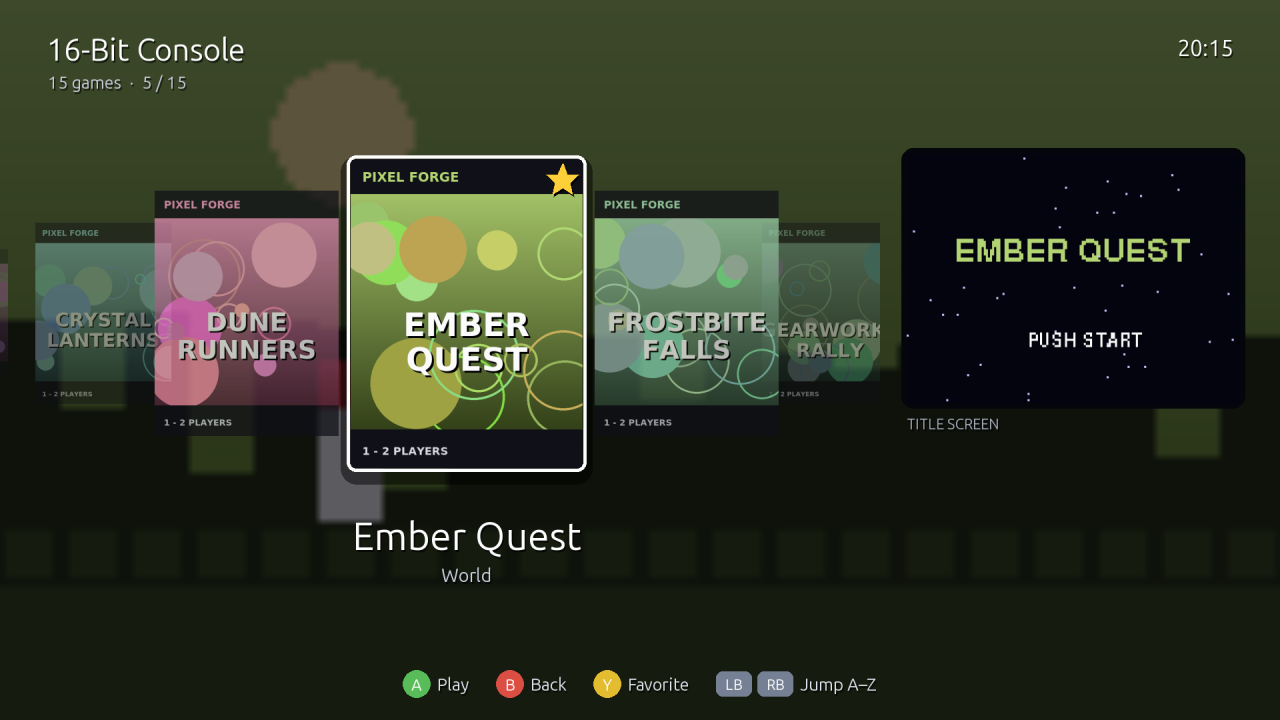
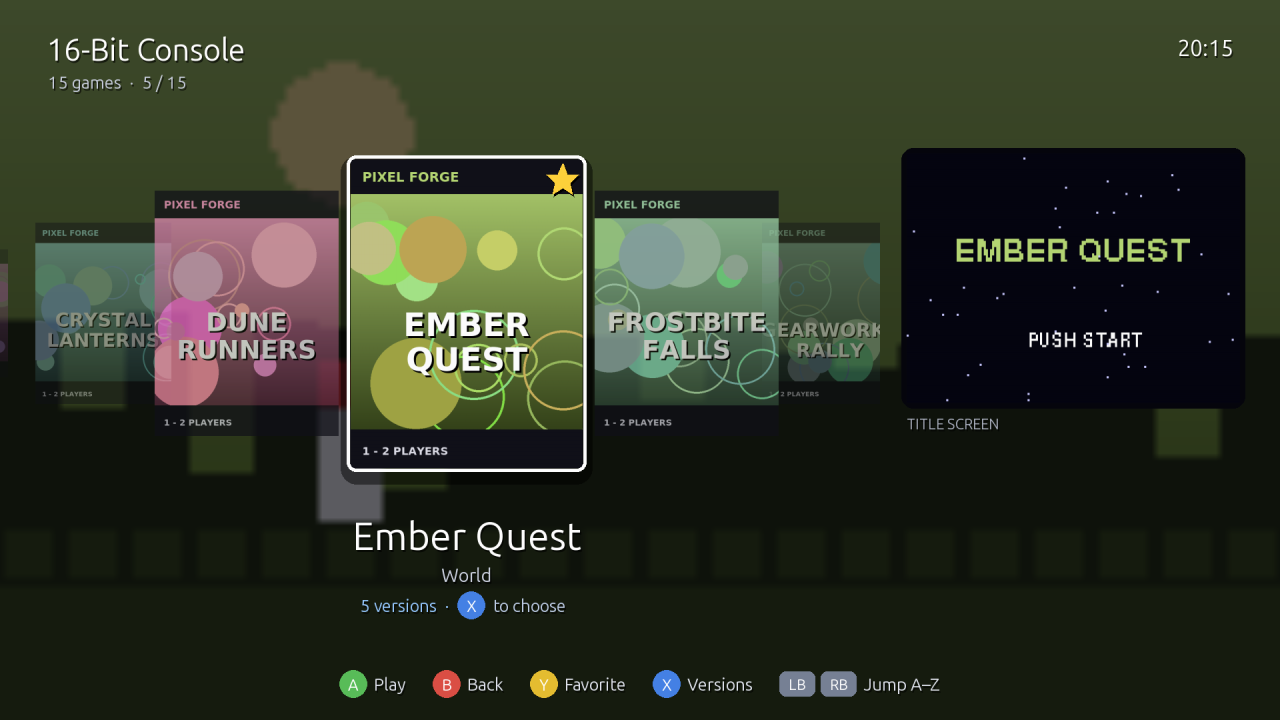
Release 0.4.0: README, changelog and screenshots
- README: built-in player section, versions and Show all, X button, the B menu,
  Select + Start game menu, new files and troubleshooting entries.
- Screenshots regenerated from the fictional demo library, plus the Versions
  list and the built-in player's pause menu.
- CHANGELOG entry for 0.4.0.

Changed region(s): [[0.25, 0.9167, 0.7188, 0.9778], [0.2812, 0.825, 0.4375, 0.8556]]

diff --git a/docs/make_screenshots.py b/docs/make_screenshots.py
@@ -36,6 +36,8 @@ SYSTEMS = {
 LIBRARY = {pl: v[3] for pl, v in SYSTEMS.items()}
 REGIONS = ["World", "USA", "Japan", "Europe"]
 FAVORITES = ["Ember Quest", "Neon Brawlers", "Chrome Horizon", "Coral Kingdom"]
+# extra copies of a game, to show the Versions list (a region, a fan translation, a revision)
+VERSIONS = {"Ember Quest": ["Japan", "Europe", "USA) (Rev 1", "Japan) (Translated En"]}
 RECENT = ["Star Pilot X", "Ember Quest", "Tiny Towers", "Rogue Comet", "Echo Protocol"]
 
 
@@ -110,6 +112,11 @@ def build_home(pygame, root):
                 pygame.image.save(img, os.path.join(ra, "thumbnails", sysdir, kind, label + ".png"))
             e = {"path": rom, "label": label, "core_path": core, "core_name": "Demo", "crc32": "00000000|crc", "db_name": pl + ".lpl"}
             entries.append(e); items[g] = e
+            for reg in VERSIONS.get(g, []):
+                vl = f"{g} ({reg})"; vrom = os.path.join(ra, "roms", vl.replace(" ", "_") + ".zip"); open(vrom, "w").close()
+                for kind, img in (("Named_Boxarts", box), ("Named_Snaps", snap), ("Named_Titles", title)):
+                    pygame.image.save(img, os.path.join(ra, "thumbnails", sysdir, kind, vl + ".png"))
+                entries.append(dict(e, path=vrom, label=vl))
         json.dump({"version": "1.5", "default_core_path": core, "items": entries}, open(os.path.join(ra, "playlists", pl + ".lpl"), "w"))
     json.dump({"version": "1.5", "items": [items[g] for g in FAVORITES]}, open(os.path.join(ra, "content_favorites.lpl"), "w"))
     json.dump({"version": "1.5", "items": [items[g] for g in RECENT]}, open(os.path.join(ra, "content_history.lpl"), "w"))
@@ -142,8 +149,20 @@ def main():
     go_system("Pixel Forge - 16-Bit Console"); app.screen_mode = "games"
     app.gi[app.sys["id"]] = next(k for k, g in enumerate(app.games()) if g.title == "Ember Quest")
     app.gpos = float(app.cur_gi()); save("games")
+    app.open_versions(); app.vsel = 1; save("versions"); app.screen_mode = "games"
     app.si = 0; app.spos = 0.0; app.screen_mode = "games"; app.gpos = 0.0; save("favorites")
     app.screen_mode = "systems"; go_system("Pixel Forge - 32-Bit Disc System"); app.screen_mode = "quit"; app.quit_sel = 1; save("menu")
+    # the built-in player's pause menu, over a demo game's picture
+    eng = runpy.run_path(os.path.join(HERE, "..", "engine.py"), run_name="engine_demo")
+    p = eng["Player"].__new__(eng["Player"]); p.screen = app.screen; p.menu_sel = 0
+    fp = pygame.font.match_font("ubuntu,notosans,dejavusans", bold=True); fc = {}
+    p.font = lambda n: fc.setdefault(n, pygame.font.Font(fp, n))
+    _, snap, _ = draw_art(pygame, lambda n: pygame.font.Font(fp, n), "Star Pilot X", root)
+    W, H = app.screen.get_size(); app.screen.fill((0, 0, 0))
+    g = pygame.transform.scale(snap, (H * 4 // 3, H)); app.screen.blit(g, ((W - g.get_width()) // 2, 0))
+    p.draw_menu()
+    pygame.image.save(pygame.transform.smoothscale(app.screen, SIZE), os.path.join(OUT, "game_menu.png"))
+    print("wrote", os.path.join("docs", "screenshots", "game_menu.png"))
     app.raw[1] = None
     app.start_setup(1, name="USB Gamepad", guid="demo", baseline={})
     app.setup["step"] = 4; save("controller_setup")

diff --git a/insert_coin.py b/insert_coin.py
@@ -2,14 +2,16 @@
 """Insert Coin - a controller-driven, console-style front end for RetroArch.
 
 It reads RetroArch's own playlists, thumbnails, favorites and history, and
-launches games through RetroArch with each game's assigned core. Nothing is
-duplicated: whatever works in RetroArch works here.
+launches games with each game's assigned core: through RetroArch, or in its own
+built-in player (engine.py, beta; B menu > Player). Nothing is duplicated:
+whatever works in RetroArch works here.
 
 Controls (Xbox-style pad; keyboard in brackets)
   D-pad / left stick  move            [arrows]
   A                   open / play     [Enter]
   B                   back            [Backspace / Esc]
   Y                   toggle favorite [F]
+  X                   versions of a game [V]
   LB / RB             previous / next letter   [PageUp / PageDown]
   Menu sounds can be switched off in the B menu (saved in ~/.config/insert-coin/settings.json).
   In a game: Select+Start opens the game menu (Resume / Quit game, or RetroArch's Quick Menu).
@@ -17,7 +19,7 @@ Controls (Xbox-style pad; keyboard in brackets)
 Options: --windowed   run in a window (for testing)
          --shot DIR   render sample screens to PNG files and exit (no display needed)
 """
-__version__ = "0.4.0.dev0"
+__version__ = "0.4.0"
 
 import json, os, re, sys, time, random, threading, subprocess, collections, logging, faulthandler, platform
 

diff --git a/README.md b/README.md
@@ -1,16 +1,17 @@
 # Insert Coin
 
-**A controller-driven, console-style game menu for [RetroArch](https://www.retroarch.com/) on Linux.**
+**A controller-driven, console-style game menu for [RetroArch](https://www.retroarch.com/) on Linux — with its own built-in game player.**
 
 Pick a system, scroll through the box art, press **A** to play. No keyboard, no settings menus —
 just your games, the way a console shows them.
 
-> **Status: 0.3.1 — early release.** Tested on Linux Mint 22.3 (Cinnamon, X11) with Xbox-style and
+> **Status: 0.4.0 — early release.** Tested on Linux Mint 22.3 (Cinnamon, X11) with Xbox-style and
 > PlayStation controllers. It hasn't been tried on other
 > setups yet, so expect rough edges and please [report them](CONTRIBUTING.md).
 >
-> Insert Coin currently needs a working RetroArch setup. A standalone version that sets
-> everything up for you is a long-term goal.
+> Insert Coin currently needs a working RetroArch setup: it uses RetroArch's playlists, cores and
+> artwork. Since 0.4.0 it can also play most games itself (**Built-in player**, beta) — the first
+> step towards a standalone version that sets everything up for you.
 
 ![Insert Coin's game screen: a box-art carousel over a blurred in-game snapshot, with the title screen in a side panel](docs/screenshots/games.png)
 
@@ -22,6 +23,7 @@ just your games, the way a console shows them.
 - [Features](#features)
 - [Screenshots](#screenshots)
 - [Controls](#controls)
+- [Built-in player (beta)](#built-in-player-beta)
 - [Prerequisites](#prerequisites)
 - [Installation](#installation)
 - [Getting artwork](#getting-artwork-sync_thumbnailspy)
@@ -37,8 +39,11 @@ just your games, the way a console shows them.
 
 ## What it is (and isn't)
 
-Insert Coin is a **front end**, not an emulator. RetroArch and its cores do the emulation;
-Insert Coin gives you a big-screen, controller-only way to browse and launch games.
+Insert Coin is a **front end**, not an emulator. The emulation is done by libretro *cores* —
+the same emulator plug-ins RetroArch uses. Insert Coin gives you a big-screen, controller-only
+way to browse and launch games, and starts each one either in RetroArch or, if you switch it on,
+in its own **built-in player**, which runs the cores directly (see
+[Built-in player](#built-in-player-beta)).
 
 It reads everything from your existing RetroArch setup — playlists, the core assigned to each
 game, thumbnails, favorites and history — so **whatever already works in RetroArch works here**,
@@ -56,14 +61,23 @@ vice versa.
   RetroArch's databases know them. Games without artwork get a clean name card.
 - **Favorites** — press **Y** on any game to add or remove it.
 - **Jump by letter** — **LB / RB** skip through long lists alphabetically.
+- **One entry per game** — the same game copied into several folders is shown once, and its
+  other versions (regions, revisions, fan translations) are grouped under one entry: press **X**
+  to pick one. The best version is chosen for you: one you have a save for, then a clean dump,
+  then USA / World, Europe, Japan. Prefer to see every ROM? **B** on the home screen →
+  **Games: Show all**.
+- **Built-in player** *(beta)* — plays games without RetroArch's window, with a simple
+  **Resume / Quit game** menu on **Select + Start**. Works for every system except N64.
 - **Menu sounds** — retro bleeps for scrolling, selecting, going back and favorites, and Insert
   Coin's own coin-up sound when a game starts: a credit counter ticking up, then a bell. All sounds are generated by the program itself (no audio files).
   Switch them off in the menu: **B** on the home screen → **Sound: On / Off**.
-- **Controller shortcuts in games** — **Select + Start** quits back to Insert Coin;
-  clicking **both sticks** opens RetroArch's menu for save states and settings.
+- **One shortcut in every game** — **Select + Start** opens the game menu: Insert Coin's
+  *Resume / Quit game* in the built-in player, or RetroArch's *Quick Menu* (Resume, save states,
+  Close Content) in RetroArch.
 - **Works with any controller** — Xbox, PlayStation and Nintendo Switch pads are recognised
-  automatically, and the on-screen button hints match the controller in your hand (✕ ○ △ on
-  PlayStation, A B Y on Xbox and Switch, key caps on the keyboard). Unrecognised pads get a
+  automatically, and the on-screen button hints match the controller in your hand (✕ ○ △ □ on
+  PlayStation, A B X Y on Xbox and Switch, key caps on the keyboard). They switch the moment you
+  plug in another pad, and pads swapped during a game are picked up. Unrecognised pads get a
   one-time set-up screen.
 - **Start on login** — optionally boot straight into the game menu, like turning on a console.
 - **Smooth on big screens** — renders at 1080p and is scaled by the GPU, so it stays fluid on 4K
@@ -75,7 +89,9 @@ vice versa.
 |---|---|
 | ![Home screen: a carousel of systems, each with a fan of its box art](docs/screenshots/home.png) | ![Favorites, shared with RetroArch's own favorites list](docs/screenshots/favorites.png) |
 | **Home** — every system, plus Favorites and Recently Played | **Favorites** — press Y on any game |
-| ![The menu: Resume, Sound on/off, Set up controller, Exit Insert Coin](docs/screenshots/menu.png) | ![Controller set-up: press the button you want for each action](docs/screenshots/controller_setup.png) |
+| ![The Versions list: one game in five versions, the best one first](docs/screenshots/versions.png) | ![The built-in player's pause menu: Resume, Quit game](docs/screenshots/game_menu.png) |
+| **Versions** — X on a game with more than one | **Game menu** — Select + Start in the built-in player |
+| ![The menu: Resume, Sound, Player, Games, Set up controller, Exit Insert Coin](docs/screenshots/menu.png) | ![Controller set-up: press the button you want for each action](docs/screenshots/controller_setup.png) |
 | **Menu** — B on the home screen | **Controller set-up** — for pads that aren't recognised |
 
 Button hints follow the controller in your hand — Xbox, PlayStation, Switch / SNES-style, or keyboard:
@@ -90,16 +106,27 @@ Button hints follow the controller in your hand — Xbox, PlayStation, Switch / 
 |---|---|---|
 | D-pad / left stick | Arrow keys | Move · up/down skips 10 games |
 | **A** or Start | Enter | Open a system · play a game |
-| **B** or Back | Esc / Backspace | Back · on the home screen: the menu (Resume · Sound on/off · Set up controller · Exit) |
+| **B** or Back | Esc / Backspace | Back · on the home screen: the menu (see below) |
 | **Y** | F | Add / remove favorite |
+| **X** | V | Versions — choose a region, revision or translation (games with more than one) |
 | **LB / RB** | Page Up / Page Down | Previous / next letter |
 
-**While a game is running** (provided by RetroArch):
+**The menu** (**B** on the home screen):
 
-| Controller | Action |
+| Item | What it does |
 |---|---|
-| **Select + Start** | Quit the game and return to Insert Coin |
-| **L3 + R3** (click both sticks) | RetroArch quick menu: save/load state, settings, quit |
+| **Resume** | Close the menu |
+| **Sound: On / Off** | Menu sounds |
+| **Player: RetroArch / Built-in (beta)** | Which program plays your games — see [Built-in player](#built-in-player-beta) |
+| **Games: One per game / Show all** | Group copies and versions of a game into one entry, or list every ROM |
+| **Set up controller** | Redo the button set-up for an unrecognised pad |
+| **Exit Insert Coin** | Close Insert Coin |
+
+**While a game is running:**
+
+| Controller | Keyboard | Action |
+|---|---|---|
+| **Select + Start** | Esc *(built-in player)* | The game menu. Built-in player: **Resume** or **Quit game**. RetroArch: its *Quick Menu* — Resume, save/load state, settings, and **Close Content** to return to Insert Coin |
 
 The table uses Xbox names; Insert Coin shows the matching symbols for your controller:
 
@@ -109,7 +136,8 @@ The table uses Xbox names; Insert Coin shows the matching symbols for your contr
 | Back | B | ○ | B | Esc |
 | Favorite | Y | △ | Y | F |
 | Previous / next letter | LB / RB | L1 / R1 | L / R | PgUp / PgDn |
-| Quit a game | Back + Start | Select + Start (PS3) · Share + Options (PS4) · Create + Options (PS5) | Minus + Plus · Select + Start on SNES replicas | Esc |
+| Versions | X | □ | X | V |
+| Game menu | Back + Start | Select + Start (PS3) · Share + Options (PS4) · Create + Options (PS5) | Minus + Plus · Select + Start on SNES replicas | Esc |
 
 Switch / SNES-style means controllers with the Nintendo layout: Switch Pro, Joy-Con pairs, 8BitDo pads in Switch mode, and USB SNES replicas (recognised by a name containing "SNES", "Super Nintendo" or "Super Famicom", or as the iBuffalo Classic pad). Nintendo puts A on the right and B at the bottom, and Insert Coin follows the printed labels, so **A** always selects — on replicas too, even though SDL reports their buttons by position. A replica that isn't recognised this way uses Xbox positions: the bottom button selects.
 
@@ -124,7 +152,35 @@ Switch / SNES-style means controllers with the Nintendo layout: Switch Pro, Joy-
   those). Buttons, d-pads and sticks all work; a button can't be given two jobs. The set-up is
   saved per controller model, so it happens once. To redo it: **B** on the home screen →
   **Set up controller**. Esc on the keyboard cancels.
-- **In games**, buttons are handled by RetroArch's own controller profiles.
+- **In games**, RetroArch uses its own controller profiles. The built-in player uses the same
+  layout as RetroArch's standard pad: the face buttons by position (bottom, right, left, top), so
+  a game's "jump on the bottom button" stays on the bottom button whatever pad you use. Each pad
+  is a player, in the order it was connected (playing two at once hasn't been tested yet). On the keyboard: arrows,
+  Z / X / A / S (bottom / right / left / top), Q / W (shoulders), Enter (Start), Right Shift (Select).
+
+## Built-in player (beta)
+
+Insert Coin can play games itself, without starting RetroArch. Turn it on with **B** on the home
+screen → **Player: Built-in (beta)**; switch back to **Player: RetroArch** at any time.
+
+- **What it is:** a small libretro *frontend* inside Insert Coin. It loads the same core files
+  RetroArch uses (from `~/.config/retroarch/cores/`), shows the picture with sharp, correctly
+  proportioned pixels, plays the sound at the game's own speed, and reads your controllers.
+- **Systems:** everything whose core draws in software — NES / Famicom, SNES, Game Boy, Game Boy
+  Color, Game Boy Advance, Mega Drive / Genesis, 32X, PC Engine, Neo Geo Pocket, PlayStation,
+  Atari 2600, arcade and Neo Geo (FinalBurn Neo, MAME 2003 and 2003-Plus). **N64 still opens in
+  RetroArch**, because its core needs the graphics card. If the built-in player can't start a
+  game, Insert Coin opens it in RetroArch instead.
+- **Saves:** battery saves (RPG progress, high scores) go to
+  `~/.local/share/insert-coin/saves/<core>/`. The first time you play a game there, your existing
+  RetroArch save for it is copied in, so you carry on where you left off. They're written every
+  30 seconds and when you quit.
+- **Settings:** each core uses the options you chose for it in RetroArch, if any; otherwise its
+  defaults. BIOS files are read from RetroArch's `system` folder.
+- **`.7z` archives** are opened with the 7-Zip program (`sudo apt install p7zip-full`); `.zip`
+  needs nothing extra.
+- **Not there yet:** save states, rewind, fast-forward, shaders, changing core options, swapping
+  discs in multi-disc games, and N64. Use **Player: RetroArch** for those.
 
 ## Prerequisites
 
@@ -242,7 +298,7 @@ Start **Insert Coin** from your applications menu, or run:
 
 | Option | Effect |
 |---|---|
-| `--windowed` | Run in a window instead of fullscreen |
+| `--windowed` | Run in a window instead of fullscreen — games too (handy for testing next to a terminal) |
 | `--shot DIR` | Render sample screens to PNG files in `DIR` and exit — no display needed (for testing) |
 
 **Tip:** close RetroArch before starting Insert Coin. Two copies of RetroArch running at once
@@ -265,16 +321,20 @@ can overwrite each other's settings.
 |---|---|
 | `~/.config/retroarch/content_favorites.lpl` | When you add/remove a favorite (only while RetroArch is closed) |
 | `~/.local/share/insert-coin/launch.cfg` | Each game launch: the in-game controller shortcuts, passed to RetroArch with `--appendconfig` |
+| `~/.local/share/insert-coin/saves/` | Battery saves of games played in the built-in player |
 | `~/.cache/insert-coin/meta/` | Cached year/publisher lookups |
 | `~/.config/insert-coin/controllers.json` | Button set-ups for controllers that aren't recognised automatically |
-| `~/.config/insert-coin/settings.json` | Your settings (currently: menu sounds on or off) |
+| `~/.config/insert-coin/settings.json` | Your settings: menu sounds, which player, one entry per game or show all |
 | `~/.local/state/insert-coin/insert-coin.log` | A log of start-ups, game launches and how each one ended, and any errors (kept to about 1 MB) |
 | `~/.local/state/insert-coin/retroarch-last.log` | RetroArch's detailed log of the last game played (`retroarch-previous.log`: the one before) |
+| `~/.local/state/insert-coin/engine-last.log` | The built-in player's log of the last game it played (`engine-previous.log`: the one before) |
+| `~/.config/retroarch/content_history.lpl` | Recently Played, for games played in the built-in player |
 
-**Note:** RetroArch saves its settings when it closes, so the in-game shortcuts
-(Select + Start to quit, L3 + R3 for the menu) become part of your RetroArch configuration
-and also work when you run RetroArch on its own. You can change them in RetroArch under
-*Settings → Input → Hotkeys*.
+**Note:** RetroArch saves its settings when it closes, so the in-game shortcut (Select + Start
+for the menu) and *Close Content quits RetroArch* (for games started from the command line only)
+become part of your RetroArch configuration. You can change them in RetroArch under
+*Settings → Input → Hotkeys* and *Settings → User Interface*. With `--windowed`, RetroArch
+also runs in a window, and that is not saved.
 
 ## Troubleshooting
 
@@ -283,13 +343,15 @@ and also work when you run RetroArch on its own. You can change them in RetroArc
 | **A system is missing** | Insert Coin hides empty playlists. Check the playlist exists in `~/.config/retroarch/playlists/` and has games. |
 | **"No core is set for this game"** | Set a default core for that playlist in RetroArch (*Settings → Playlists → Manage Playlists*) or set the game's core association. |
 | **"The game closed straight away"** | The game doesn't run with its assigned core, or a BIOS file is missing. Try it in RetroArch directly to see the error, then change the core. |
+| **I see fewer games than RetroArch lists** | Copies of the same game in several folders are shown once, and versions are grouped (press **X** on a game to see them). **B** on the home screen → **Games: Show all** lists every ROM. |
+| **A game behaves differently in the built-in player** | Switch to **Player: RetroArch** and compare. If it's the same there, it's the game (some fire automatically, for instance); if not, please [report it](CONTRIBUTING.md) with `engine-last.log`. |
 | **No artwork** | Run `sync_thumbnails.py`. Some games — hacks, prototypes, translations — have no artwork on the server and get a name card instead. |
 | **Controller does nothing** | Press a button: an unrecognised controller opens the set-up screen. If nothing happens, check the controller works in RetroArch (`retroarch --version`, Settings → Input). Keyboard controls always work. |
 | **Set up a controller wrongly** | **B** on the home screen → **Set up controller** to do it again, or delete `~/.config/insert-coin/controllers.json`. |
-| **Can't quit a game with the controller** | Press Select + Start together. If that was changed in RetroArch, use your RetroArch hotkey or the Esc key. |
-| **Something crashed or closed unexpectedly** | Look at `~/.local/state/insert-coin/insert-coin.log` — it records each launch and how RetroArch ended — and at `retroarch-last.log` next to it for the game's details. Attach both when [reporting a problem](CONTRIBUTING.md). |
-| **No menu sounds** | Check **B** on the home screen shows **Sound: On**, and that your system volume is up. Without a working audio device Insert Coin simply runs silently. Game sound is handled by RetroArch and isn't affected. |
-| **Sticks feel swapped in an N64 shooter** | Many N64 shooters walk with the C-buttons and aim with the stick, and RetroArch puts the C-buttons on your right stick. In the game, open RetroArch's menu (**L3 + R3**) → *Controls → Port 1 Controls*, swap the Left and Right Analog entries, then *Manage Remap Files → Save Game Remap File*. It applies to that game only. |
+| **Can't quit a game with the controller** | Press Select + Start together, then choose **Quit game** (built-in player) or **Close Content** (RetroArch). If that was changed in RetroArch, use your RetroArch hotkey or the Esc key. |
+| **Something crashed or closed unexpectedly** | Look at `~/.local/state/insert-coin/insert-coin.log` — it records each launch and how the game ended — and at `retroarch-last.log` or `engine-last.log` next to it for the game's details. Attach both when [reporting a problem](CONTRIBUTING.md). |
+| **No menu sounds** | Check **B** on the home screen shows **Sound: On**, and that your system volume is up. Without a working audio device Insert Coin simply runs silently. Game sound is handled separately and isn't affected. |
+| **Sticks feel swapped in an N64 shooter** | Many N64 shooters walk with the C-buttons and aim with the stick, and RetroArch puts the C-buttons on your right stick. In the game, open RetroArch's menu (**Select + Start**) → *Controls → Port 1 Controls*, swap the Left and Right Analog entries, then *Manage Remap Files → Save Game Remap File*. It applies to that game only. |
 | **Stutters while scrolling the first time** | Artwork loads in the background on first view, then stays cached for the session. |
 
 ## Uninstall
@@ -315,4 +377,6 @@ from the libretro thumbnail project and remain subject to their owners' rights.
 [MIT](LICENSE) © 2026 Madmartigan1
 
 Insert Coin uses [pygame-ce](https://github.com/pygame-community/pygame-ce), which is licensed
-under the LGPL 2.1, as an installed library.
+under the LGPL 2.1, as an installed library. The built-in player talks to emulator cores through
+the MIT-licensed [libretro API](https://github.com/libretro/libretro-common); it does not include
+any cores. The cores you install keep their own licenses.

diff --git a/CHANGELOG.md b/CHANGELOG.md
@@ -4,6 +4,54 @@ All notable changes to Insert Coin. Versions follow [semantic versioning](https:
 before 1.0, minor versions add features and patch versions fix bugs.
 Each version is also a [GitHub Release](https://github.com/Madmartigan1/insert-coin/releases).
 
+## [0.4.0] — 2026-11-04 · "Player One"
+
+Insert Coin can now play games itself, and big collections are much tidier to browse.
+
+### New
+- **Built-in player** *(beta)*. Insert Coin can run games without RetroArch's window. It
+  loads the same emulator cores RetroArch uses and shows the picture with sharp, correctly
+  proportioned pixels, plays the sound at the game's own speed and reads every controller.
+  Switch it on with **B** on the home screen → **Player: Built-in (beta)**.
+  - Plays NES / Famicom, SNES, Game Boy, Game Boy Color, Game Boy Advance, Mega Drive /
+    Genesis, 32X, PC Engine, Neo Geo Pocket, PlayStation, Atari 2600, arcade and Neo Geo.
+    N64 still opens in RetroArch.
+  - **Select + Start** (or Esc) pauses the game with a **Resume / Quit game** menu.
+  - Battery saves go to Insert Coin's own folder; the first time you play a game, your
+    RetroArch save for it is copied in, so you carry on where you left off.
+  - Uses the core options you chose in RetroArch, and RetroArch's BIOS folder.
+  - Reads games in `.zip` and `.7z` archives (`.7z` needs the 7-Zip program).
+  - If it can't start a game, Insert Coin opens that game in RetroArch instead.
+  - Games played here appear in Recently Played.
+  - Not there yet: save states, rewind, fast-forward, shaders, core options, disc swapping.
+- **One entry per game.** The same game copied into several folders is now shown once, and
+  its versions — regions, revisions, fan translations — are grouped under one entry. The
+  best version is picked for you: one you have a save for, then a clean dump, then USA /
+  World, Europe, Japan. Press **X** to choose another; the note under the game says how many
+  there are and shows the button to press on *your* controller.
+- **Games: One per game / Show all.** **B** on the home screen → **Games** switches between the
+  tidy view and every ROM, instantly.
+- **The X button** has its own hint on every controller (blue X on Xbox, pink □ on
+  PlayStation, X on Switch / SNES-style, V on the keyboard), and the set-up screen for
+  unrecognised pads asks for it too (optional).
+
+### Changed
+- **Select + Start now opens a menu in every game** instead of quitting straight away: the
+  built-in player's pause menu, or RetroArch's *Quick Menu*, where **Close Content** returns
+  you to Insert Coin. Clicking both sticks no longer opens RetroArch's menu.
+- **Button hints switch as soon as you plug in a controller**, not only after you press one
+  of its buttons, with a short "Controller connected" message.
+- `--windowed` now runs games in a window too, RetroArch included (without changing your
+  RetroArch settings).
+
+### Fixed
+- Controllers swapped while a game was running were ignored afterwards, and the hints kept
+  showing the old pad's buttons. The controller list is now refreshed after every game.
+- Games inside folders whose names contain `#` (common for fan-translation collections)
+  failed to start, and disappeared from Favorites and Recently Played.
+- The "game closed straight away" warning no longer appears when you quit a game yourself
+  within a few seconds.
+
 ## [0.3.1] — 2026-11-04 · "Credit counter"
 
 ### Changed
